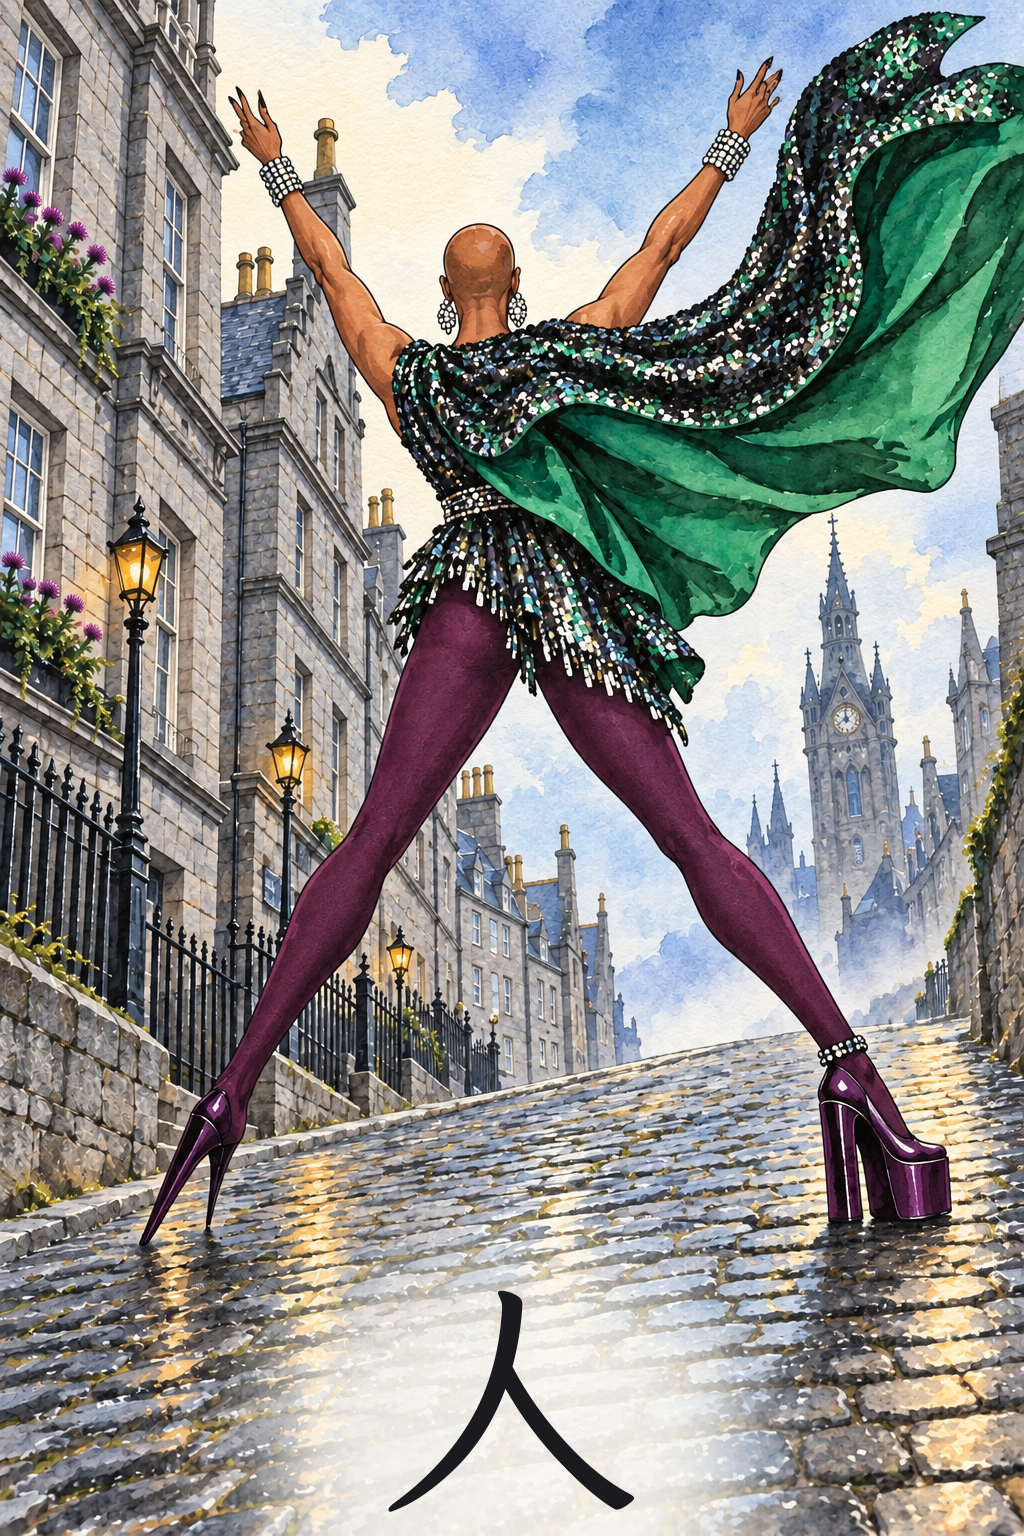
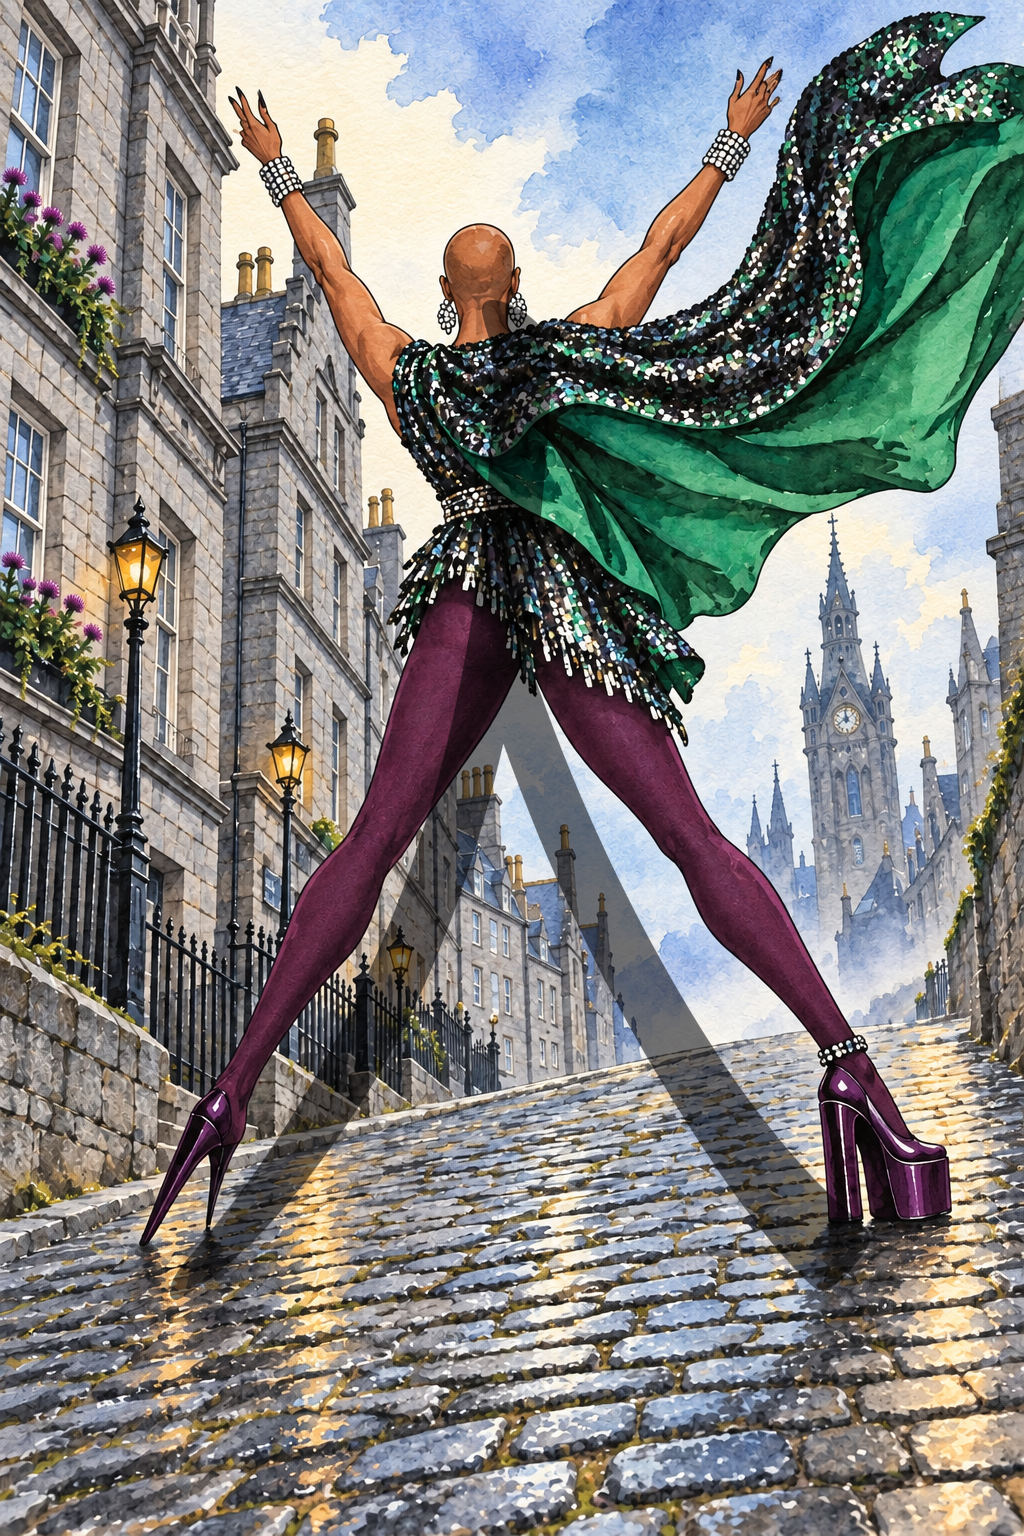
Adopt large translucent centred glyph as card #1 front layout
Claude-Session: https://claude.ai/code/session_014PFZG6gbybVmAeGDFQn6nu

Changed region(s): [[0.2188, 0.7812, 0.8125, 1.0], [0.1562, 0.1875, 0.8438, 0.8438]]

diff --git a/hmm-flashcards/card-001-ren.md b/hmm-flashcards/card-001-ren.md
@@ -15,7 +15,7 @@
 
 # 人
 
-Set in Kaiti, about 17% of the card height, centred on the calm cobblestone area at the bottom of the card, on a soft paper-coloured wash. Sumi ink black (#1B1B1F). The actor's legs already form the full-size 人, so the printed glyph confirms the shape instead of covering it. (A full-size overlay was tested: its thin strokes land in the gap between the legs and compete with them. See `art/001-ren-front-mockup.png`.)
+**Chosen layout (deck standard):** a large, centred Kaiti glyph spanning about 65% of the card height (in this image, from the waist to below the heels) and about 70% of the width. Sumi ink black (#1B1B1F) at **60% opacity** in **Multiply** blend mode, so it reads like a translucent ink wash over the watercolour. The glyph's apex sits at the actor's waist and its two strokes run alongside the legs. See `art/001-ren-front-mockup.png`.
 
 ### Artwork Description & Overlay Blueprint
 
